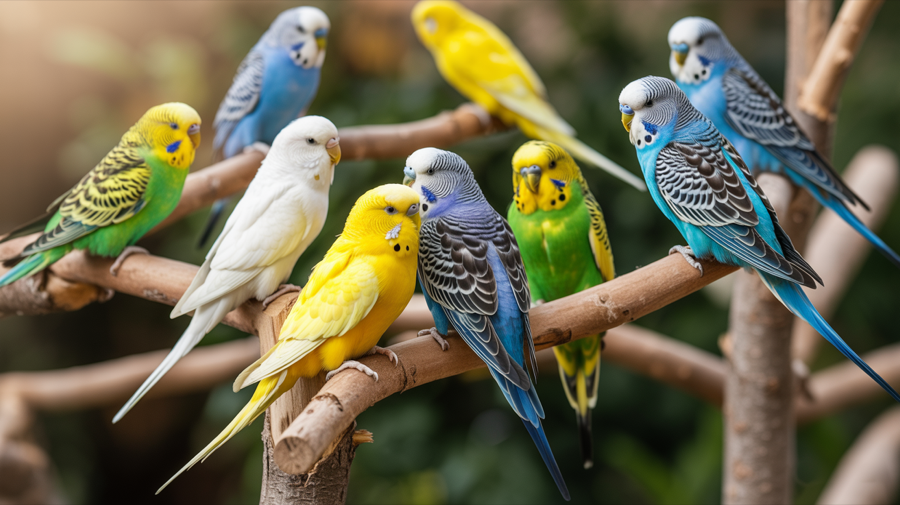
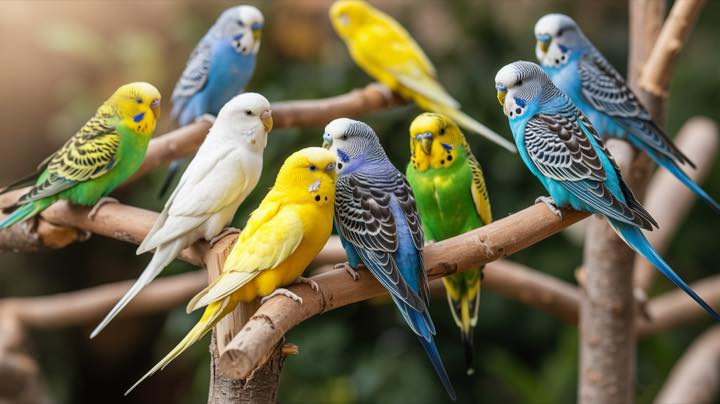
LCP: hero JPEG-id ~40KB; meriseabeebid blogi-teaser allapoole.

diff --git a/components/guinea-pig-gallery.tsx b/components/guinea-pig-gallery.tsx
@@ -72,22 +72,6 @@ export function GuineaPigGallery({ initialGuineaPigs }: GuineaPigGalleryProps) {
           </p>
         </details>
 
-        <div className="max-w-4xl mx-auto mb-8 text-center">
-          <p className="text-xs md:text-sm italic font-semibold text-[#2E3A32] leading-relaxed">
-            Tutvu enne merisea valikut nende vajadustega, et pakkuda oma tulevasele lemmikule parimat.
-            <br />
-            Meie blogist leiad praktilisi nõuandeid ja hooldusjuhiseid nii uuele kui ka kogenud omanikule.
-          </p>
-          <Link href="/blogi?loom=Merisead">
-            <Button
-              variant="ghost"
-              className="mt-4 inline-flex h-7 w-[4.5rem] items-center justify-center rounded-full border text-[11px] font-semibold leading-[1] tracking-wide border-muted-foreground/60 text-muted-foreground hover:border-green-800 hover:text-green-800 transition-colors"
-            >
-              BLOGI
-            </Button>
-          </Link>
-        </div>
-
         {/* Filters - keskele ja kitsamaks */}
         {guineaPigs.length > 0 && (
           <div className="max-w-3xl mx-auto mb-8">
@@ -336,6 +320,22 @@ export function GuineaPigGallery({ initialGuineaPigs }: GuineaPigGalleryProps) {
             </div>
           )
         })}
+        </div>
+
+        <div className="max-w-4xl mx-auto mb-12 text-center">
+          <p className="text-xs md:text-sm italic font-semibold text-[#2E3A32] leading-relaxed">
+            Tutvu enne merisea valikut nende vajadustega, et pakkuda oma tulevasele lemmikule parimat.
+            <br />
+            Meie blogist leiad praktilisi nõuandeid ja hooldusjuhiseid nii uuele kui ka kogenud omanikule.
+          </p>
+          <Link href="/blogi?loom=Merisead">
+            <Button
+              variant="ghost"
+              className="mt-4 inline-flex h-7 w-[4.5rem] items-center justify-center rounded-full border text-[11px] font-semibold leading-[1] tracking-wide border-muted-foreground/60 text-muted-foreground hover:border-green-800 hover:text-green-800 transition-colors"
+            >
+              BLOGI
+            </Button>
+          </Link>
         </div>
 
         {/* Purchase Process */}